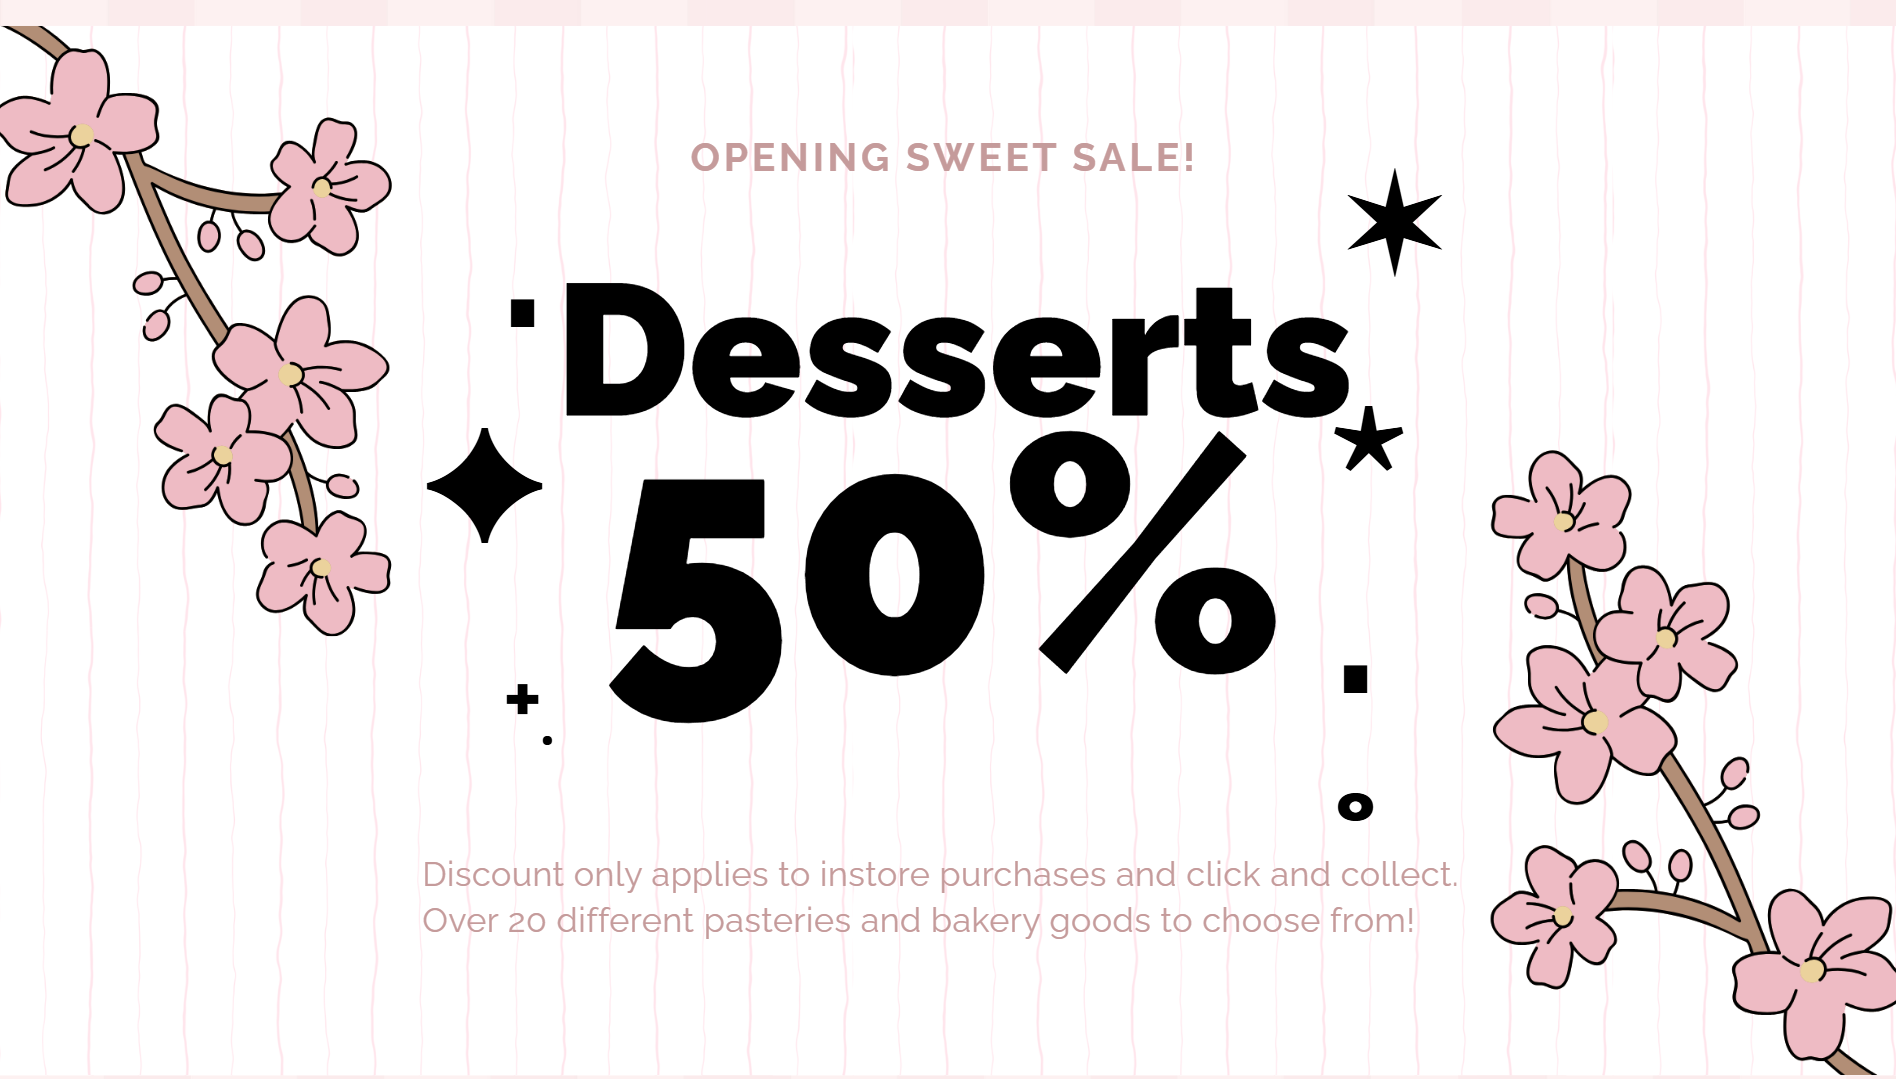
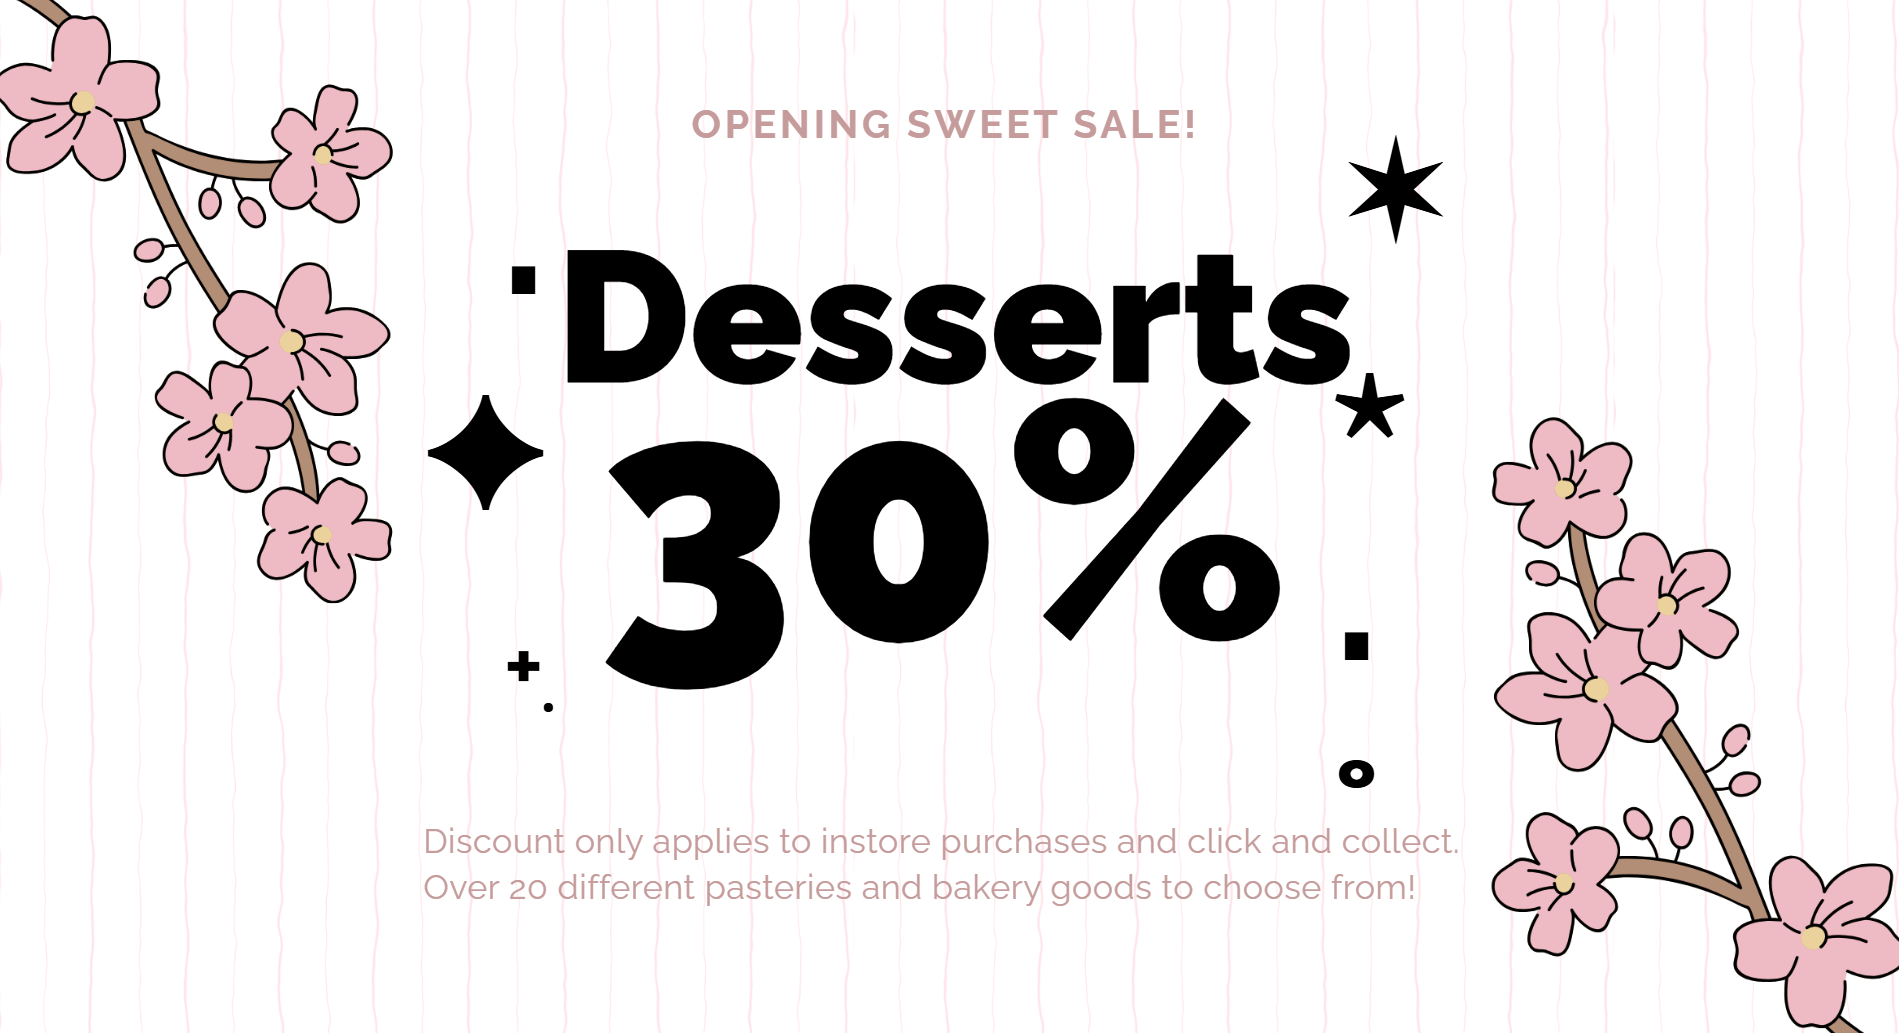
Improve homepage layout and responsive styling, add button styling, update hero subtitle, and refresh promo image

diff --git a/static/css/style.css b/static/css/style.css
@@ -495,3 +495,84 @@ a { text-decoration: none; }
 /* Make gingham circles a touch larger for visual match */
 .gingham-circle-large { width: 150px; height: 150px; border: 18px solid transparent; }
 
+/* Best sellers wrapper subtle change */
+.best-sellers-box { border-radius: 40px; }
+
+/* Utilities for header/home icon */
+.home-icon { font-size: 1.6rem; text-decoration: none; color: inherit; }
+
+/* Responsive styles */
+/* These rules make the layout adapt better on smaller screens. */
+@media (max-width: 900px) {
+    .brand-title { font-size: 3.5rem; }
+    .featured-circles { gap: 20px; flex-wrap: wrap; }
+    .cart-section { flex-direction: column; padding: 20px; }
+    .pill-grid { justify-content: center; }
+}
+
+/* ==========================
+   Spacing & framing tweaks
+   ========================== */
+/* prevent content jumping under sticky header */
+body { padding-top: 72px; }
+
+.hero { padding: 80px 20px 40px; }
+.featured-circles { gap: 80px; margin: 50px 0 30px; }
+.gingham-circle-large { width: 160px; height: 160px; border: 20px solid transparent; }
+.gingham-circle-large img { padding: 10px; }
+
+.cart-section { gap: 48px; padding: 60px 40px; }
+.wavy-box { padding: 48px; }
+.addons-grid { gap: 28px; }
+.addon-col { padding: 24px; }
+
+.summary-box { padding: 36px; }
+.pill-card { padding: 36px 20px; width: 180px; }
+.best-sellers-box { padding: 60px 30px; }
+
+/* Slightly larger thumbnails in summary */
+.mini-gingham-circle { width: 60px; height: 60px; border-width: 6px; }
+.mini-gingham-circle img { padding: 6px; }
+
+/* subtle transition to improve feel when hovering */
+.pill-card, .wavy-box { transition: transform 180ms ease, box-shadow 180ms ease; }
+.pill-card:hover { transform: translateY(-6px); box-shadow: 0 14px 30px rgba(0,0,0,0.06); }
+
+/* Narrow screen tightness */
+@media (max-width: 560px) {
+    body { padding-top: 60px; }
+    .brand-title { font-size: 2.6rem; }
+    .featured-circles { gap: 24px; }
+    .gingham-circle-large { width: 120px; height: 120px; border-width: 12px; }
+    .promo-content h2 { font-size: 2rem; }
+    .huge-text { font-size: 2.6rem; }
+    .cart-section { padding: 20px; }
+}
+
+/* Buttons */
+.button-group {
+    display: flex;
+    flex-direction: column;
+    gap: 8px;
+    width: 100%;
+}
+button {
+    font-family: 'Quicksand', sans-serif;
+    border: none;
+    padding: 8px 15px;
+    border-radius: 20px;
+    cursor: pointer;
+    font-size: 0.7rem;
+    font-weight: 700;
+    width: 100%;
+    transition: opacity 0.2s;
+}
+button:hover { opacity: 0.8; }
+.btn-primary {
+    background-color: #F4CCD6;
+    color: #333;
+}
+.btn-secondary {
+    background-color: #f5f5f5;
+    color: #555;
+}

diff --git a/templates/index.html b/templates/index.html
@@ -4,7 +4,7 @@
 <!-- Hero Section -->
 <section class="hero">
     <h1 class="brand-title">Parfait Pasteries</h1>
-    <h3 class="subtitle">GIVE YOURSELF A TREAT</h3>
+    <h3 class="subtitle">GIVE YOURSELF A TREAT!</h3>
     <p class="hero-desc">
         Located in a cozy corner where the air smells of toasted sugar and browned butter, Parfait Pastries feels like a little sanctuary pulled right out of a novel. It's the ultimate place to slow down, support a sweet local business, and remind yourself that an afternoon treat isnt just delicious — it's essential!
     </p>
